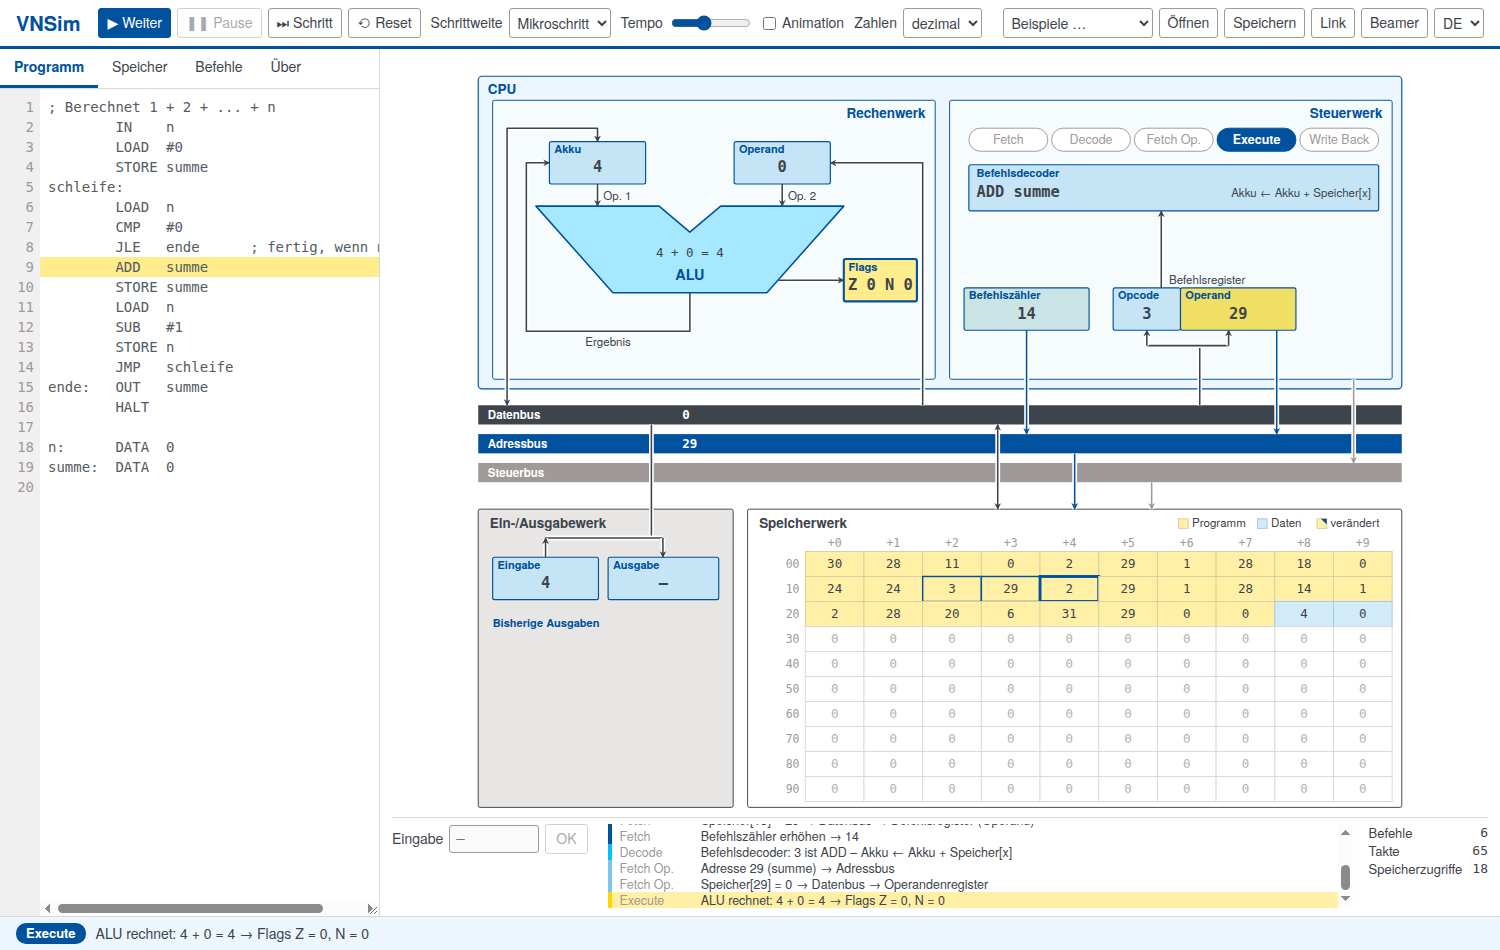
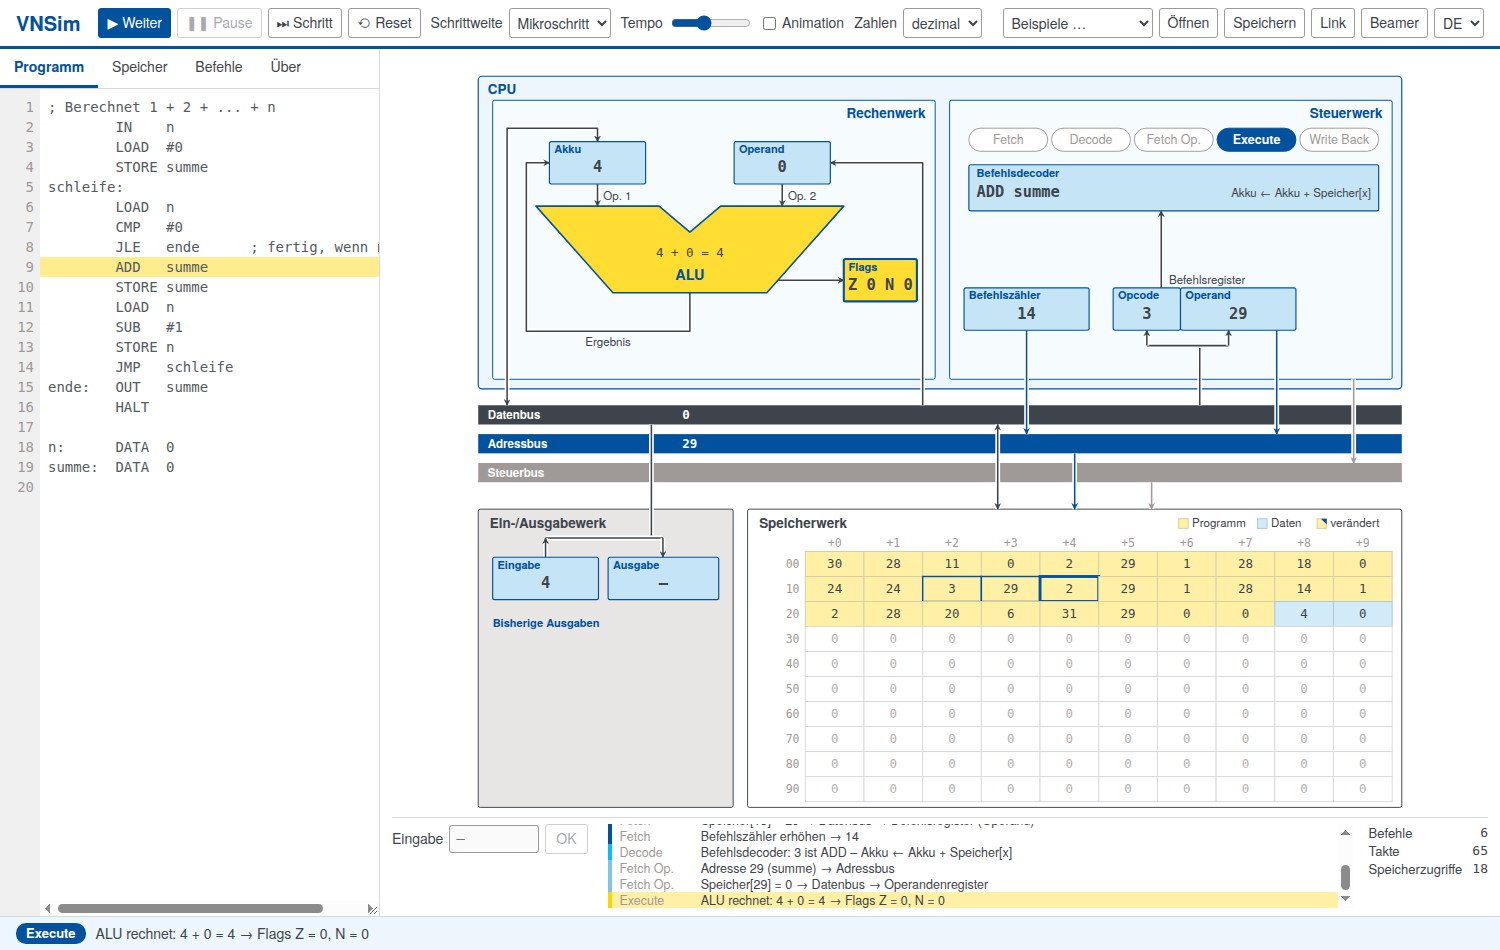
Help updated to #2 vs. 2

Changed region(s): [[0.368, 0.2137, 0.552, 0.3053], [0.7667, 0.3053, 0.8893, 0.3663], [0.552, 0.2747, 0.6133, 0.3358]]

diff --git a/js/i18n.js b/js/i18n.js
@@ -252,6 +252,8 @@ start:  LOAD  #5      ; Direktwert
         STORE 42      ; Adresse als Zahl
         JMP   start   ; Sprungziel
 x:      DATA  7       ; Datenzelle(n): DATA 1, 2, 3</pre>
+<p>Eine Zahl ohne <code>#</code> ist eine <b>Adresse</b> – für die Zahl 2 <code>#2</code> schreiben
+(<code>MOD 2</code> rechnet mit dem Inhalt von Zelle 2).</p>
 <p>Labels stehen am Zeilenanfang und enden mit <code>:</code>. <code>x+1</code> adressiert die Zelle nach <code>x</code>.
 Groß-/Kleinschreibung spielt keine Rolle.</p>
 <h2>Befehlszyklus</h2>
@@ -502,6 +504,8 @@ start:  LOAD  #5      ; immediate value
         STORE 42      ; address as a number
         JMP   start   ; jump target
 x:      DATA  7       ; data cell(s): DATA 1, 2, 3</pre>
+<p>A number without <code>#</code> is an <b>address</b> – write <code>#2</code> for the number 2
+(<code>MOD 2</code> uses the contents of cell 2).</p>
 <p>Labels start a line and end with <code>:</code>. <code>x+1</code> addresses the cell after <code>x</code>.
 Upper and lower case are treated the same.</p>
 <h2>Instruction cycle</h2>
